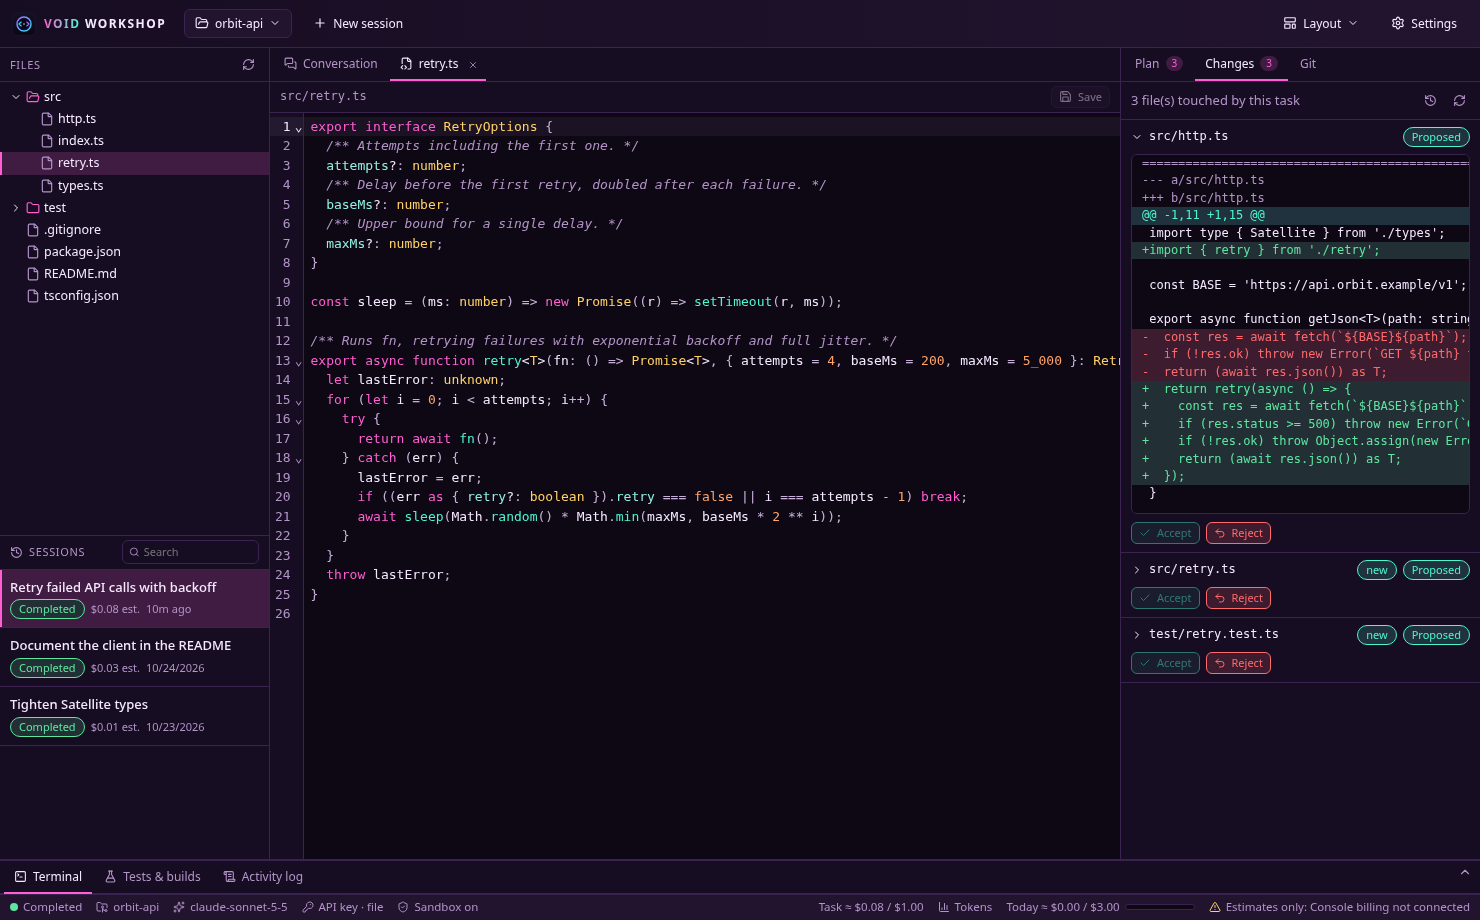
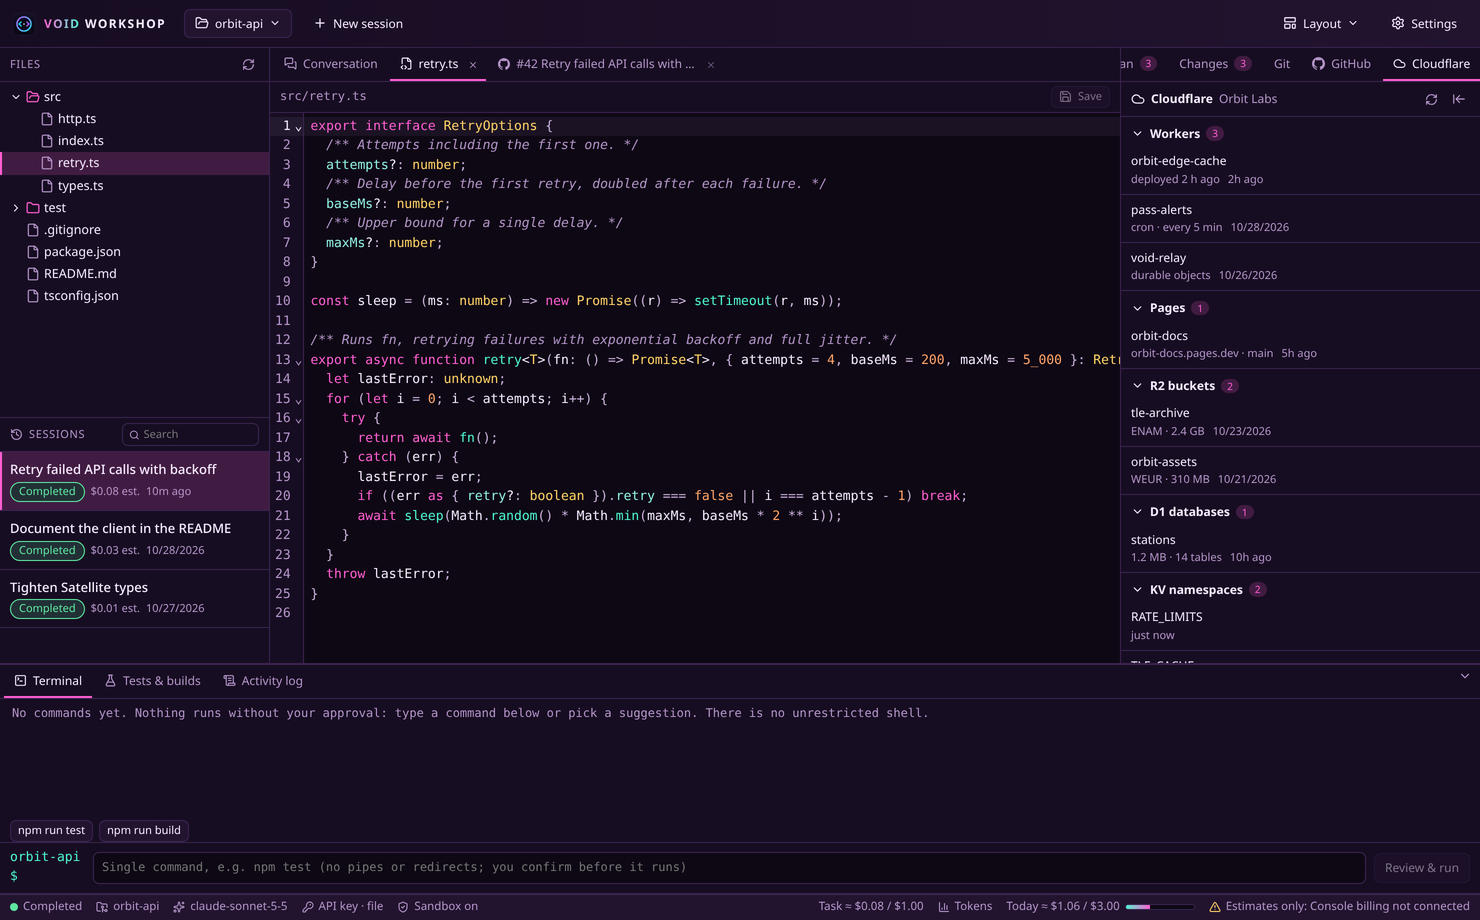
README: hero image, demo GIF, badges and new screenshots
- Hero image and a 20-second demo GIF at the top, plus license/platform/release badges.
- Fresh desktop screenshots (also used by the website) and new ones for the modes,
  GitHub and Cloudflare panels, the token dashboard and the language picker.
- Highlights cover the GitHub/Cloudflare panels, token saver and usage dashboard.
- Fix a doubled code fence under Requirements; point the download at VOID Portal 1.11.1.

diff --git a/README.md b/README.md
@@ -4,13 +4,22 @@
 
 <p align="center">A local, approval-first AI coding workspace for Linux, powered by the Claude Agent SDK and <b>your own Claude plan or Anthropic Console API key</b>.</p>
 
+<p align="center">
+  <a href="LICENSE"><img src="https://img.shields.io/badge/license-MIT-a970ff" alt="MIT license"></a>
+  <img src="https://img.shields.io/badge/platform-Linux-22e3ff" alt="Linux">
+  <a href="https://github.com/M4S4T0-V01D/void-workshop/releases/latest"><img src="https://img.shields.io/github/v/release/M4S4T0-V01D/void-workshop?label=VOID%20Portal&color=a970ff" alt="Latest VOID Portal release"></a>
+  <img src="https://img.shields.io/badge/languages-13-22e3ff" alt="13 languages">
+</p>
+
 <p align="center"><a href="https://m4s4t0-v01d.github.io/void-workshop/">Website</a> · <a href="#install">Install</a> · <a href="#void-portal-your-phone-as-a-remote">VOID Portal</a> · <a href="guides/api-key.md">API key setup</a> · <a href="guides/claude-plan.md">Claude plan</a> · <a href="guides/billing.md">Billing &amp; limits</a> · <a href="guides/security.md">Security model</a> · <a href="guides/forking.md">Forking</a></p>
+
+<p align="center"><img src="assets/hero.png" alt="VOID Workshop: your code, your key, your approval. The desktop app showing a diff awaiting approval, next to two phones running VOID Portal"></p>
 
 ---
 
 You pick a project folder, describe a task in plain English, review the agent's plan, and approve every file change and shell command. VOID Workshop shows a diff for each edit, keeps the original of every file it touches so you can reject changes one by one, and stops itself at the spending limits you set.
 
-![VOID Workshop main window](docs/screenshots/workspace.png)
+<p align="center"><img src="assets/demo.gif" alt="A 20-second tour: the four modes, a diff awaiting approval, VOID Portal on three phones, a GitHub pull request, the Cloudflare panel, the token dashboard, themes and languages"></p>
 
 Everything runs on your machine with your own account: no telemetry, no shared server, nothing from the author's setup built in. You bring the Claude plan or API key (or free local models through Ollama), and if you want the phone app, you deploy your own relay in a few minutes on a free Cloudflare account.
 
@@ -24,11 +33,35 @@ Everything runs on your machine with your own account: no telemetry, no shared s
     <td align="center">Built-in editor, highlighting follows your theme</td>
   </tr>
   <tr>
+    <td><img src="docs/screenshots/modes.png" alt="The mode picker: Ask before edits, Edit automatically, Auto and Plan mode"></td>
+    <td><img src="docs/screenshots/workspace.png" alt="VOID Workshop main window with a task in progress"></td>
+  </tr>
+  <tr>
+    <td align="center">Four modes, from read-only plans to Auto</td>
+    <td align="center">Tasks, sessions and the project side by side</td>
+  </tr>
+  <tr>
+    <td><img src="docs/screenshots/github-pr.png" alt="GitHub panel showing a pull request"></td>
+    <td><img src="docs/screenshots/cloudflare.png" alt="Cloudflare panel with Workers and Pages"></td>
+  </tr>
+  <tr>
+    <td align="center">GitHub: pull requests, issues, runs, releases</td>
+    <td align="center">Cloudflare: Workers, Pages, R2, D1 and KV</td>
+  </tr>
+  <tr>
+    <td><img src="docs/screenshots/tokens.png" alt="Token usage dashboard for the last 30 days"></td>
     <td><img src="docs/screenshots/themes.png" alt="Theme editor with seven built-in themes"></td>
+  </tr>
+  <tr>
+    <td align="center">Token dashboard: where the weight goes</td>
+    <td align="center">Seven themes and a live colour editor</td>
+  </tr>
+  <tr>
+    <td><img src="docs/screenshots/language.png" alt="Language picker with 13 languages"></td>
     <td><img src="docs/screenshots/welcome.png" alt="First launch: sign in with a Claude plan or an API key"></td>
   </tr>
   <tr>
-    <td align="center">Seven themes and a live colour editor</td>
+    <td align="center">13 languages, right-to-left included</td>
     <td align="center">First launch: plan, API key or Ollama</td>
   </tr>
 </table>
@@ -38,7 +71,8 @@ Everything runs on your machine with your own account: no telemetry, no shared s
 - **Agent-first workflow.** A chat-style prompt box with a mode picker and a model picker, like Claude Code in VS Code. Four modes: *Ask before edits*, *Edit automatically*, *Auto* and *Plan mode* (read-only, then a plan to approve). Shift+Tab cycles them. Follow-ups continue the same SDK session; sessions can be resumed after a restart.
 - **Your Claude plan or your API key, with a switch.** Sign in with your Claude plan (Pro/Max) or use a Console API key held in the desktop Secret Service; a button under the prompt box switches between them, and when one runs out the task continues on the other. The plan login is VOID Workshop's own (your normal Claude Code login is left alone), and before each session the runtime's credential is checked: no request is sent if it isn't the one you chose.
 - **Queue messages while it works.** Keep typing while the agent runs: messages wait in a queue (edit, remove or *send now*) and go out together as one message when the turn ends.
-- **Lean on tokens, quick to respond.** A smaller tool set (~4k fewer tokens on every request), efficiency rules in the agent prompt, automatic compaction at 200k tokens, a context meter with one-click *Compact*, cache-hit rates per turn, a choice of prompt-cache lifetime, and effort and fast-mode switches in the prompt bar that apply to a running task immediately.
+- **GitHub and Cloudflare panels.** Sign in to GitHub (device login or a token) to browse the project's pull requests, issues, workflow runs and releases, read the threads and comment without leaving the app. Paste a Cloudflare API token to see your Workers, Pages, R2 buckets, D1 databases and KV namespaces. Both tokens stay in the keyring and never reach the window or the agent.
+- **Lean on tokens, quick to respond.** A token saver (on by default) that compacts at 120k tokens and trims command output, an optional cheaper model for implementing an approved plan, and a token usage dashboard (last 30 days, per model, and where the weight goes). Also a smaller tool set (~4k fewer tokens on every request), a context meter with one-click *Compact*, cache-hit rates per turn, a choice of prompt-cache lifetime, and effort and fast-mode switches in the prompt bar that apply to a running task immediately.
 - **VOID Portal: your phone as a remote.** Pair the Android app with a QR code and drive VOID Workshop from anywhere through your own Cloudflare relay, end-to-end encrypted: start and queue tasks, approve changes and commands (even from the notification), switch Claude plan / API key / Ollama, and get cosmic notification sounds when a task is done, needs you, or the PC goes offline. See [remote/README.md](remote/README.md).
 - **Admin dev sessions.** Behind a password you set, let the agent work on VOID Workshop and VOID Portal themselves: fixes and whole features, a new build installed and restarted into, the task carrying on afterwards. Start and end it from the PC or the phone; ending it puts everything back to normal. Most desktop settings can also be changed from VOID Portal. See [guides/admin-dev.md](guides/admin-dev.md).
 - **Reviewable changes.** Unified diff before every write; per-file accept/reject afterwards; clear *proposed → applied → tested → committed* states; external edits are detected and never silently overwritten.
@@ -54,8 +88,6 @@ VOID Workshop is developed and tested on Arch Linux; other distributions work wi
 
 ```bash
 # Arch Linux
-
-```bash
 sudo pacman -S --needed base-devel nodejs npm rust git webkit2gtk-4.1 gtk3 libsoup3 librsvg \
   libayatana-appindicator openssl libsecret bubblewrap socat ripgrep
 
@@ -126,7 +158,7 @@ node test/smoke.mjs wss://void-relay.<your-subdomain>.workers.dev   # checks the
 
 Then in VOID Workshop open **Settings → VOID Portal (phone)**, enter `wss://void-relay.<your-subdomain>.workers.dev` as the relay, and click **Pair a phone**. Install the app and scan the code:
 
-- **Download it:** the newest build is **VOID Portal 1.11.0** ([VOID-Portal-1.11.0.apk](https://github.com/M4S4T0-V01D/void-workshop/releases/download/portal-v1.11.0/VOID-Portal-1.11.0.apk)); every version is under [Releases](https://github.com/M4S4T0-V01D/void-workshop/releases). Android asks you to allow installs from your browser or file manager the first time.
+- **Download it:** the newest build is **VOID Portal 1.11.1** ([VOID-Portal-1.11.1.apk](https://github.com/M4S4T0-V01D/void-workshop/releases/download/portal-v1.11.1/VOID-Portal-1.11.1.apk)); every version is under [Releases](https://github.com/M4S4T0-V01D/void-workshop/releases). Android asks you to allow installs from your browser or file manager the first time.
 - **Or build it** with JDK 17: `cd remote/android && ./gradlew :app:assembleRelease`.
 
 Either way, the APK contains no relay, account or key: it learns your relay from the pairing code. The full guide, including the optional R2 bucket for app updates and what to do if a pairing code leaks, is in [remote/README.md](remote/README.md#your-own-relay).
